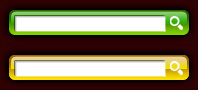
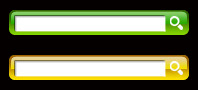
removed DoS references both in variables and images - used monochrome background

diff --git a/style.css b/style.css
@@ -5,7 +5,7 @@
 
 body {
 	font: 12px Verdana, Geneva, sans-serif;
-	background: #2f0103;
+	background: #000000;
 	padding: 0; margin: 0; outline: 0
 }
 
@@ -21,7 +21,7 @@ img { border: 0 }
 --------------------------------------------------*/
 #header {
 	width: 100%; height: 9px;
-	background: #962423 url(images/bg-header.jpg) center no-repeat;
+	background: #000000 url(images/bg-header.jpg) center no-repeat;
 	border-bottom: 1px solid #FFFFFF;
 }
 
@@ -958,7 +958,7 @@ img.entity-picture {
 .balloon-heading h2 {
 	font: 12px Verdana, Geneva, sans-serif;
 	font-weight: bold;
-	color: #320a0a;
+	color: #000000;
 }
 
 .balloon-content {}
